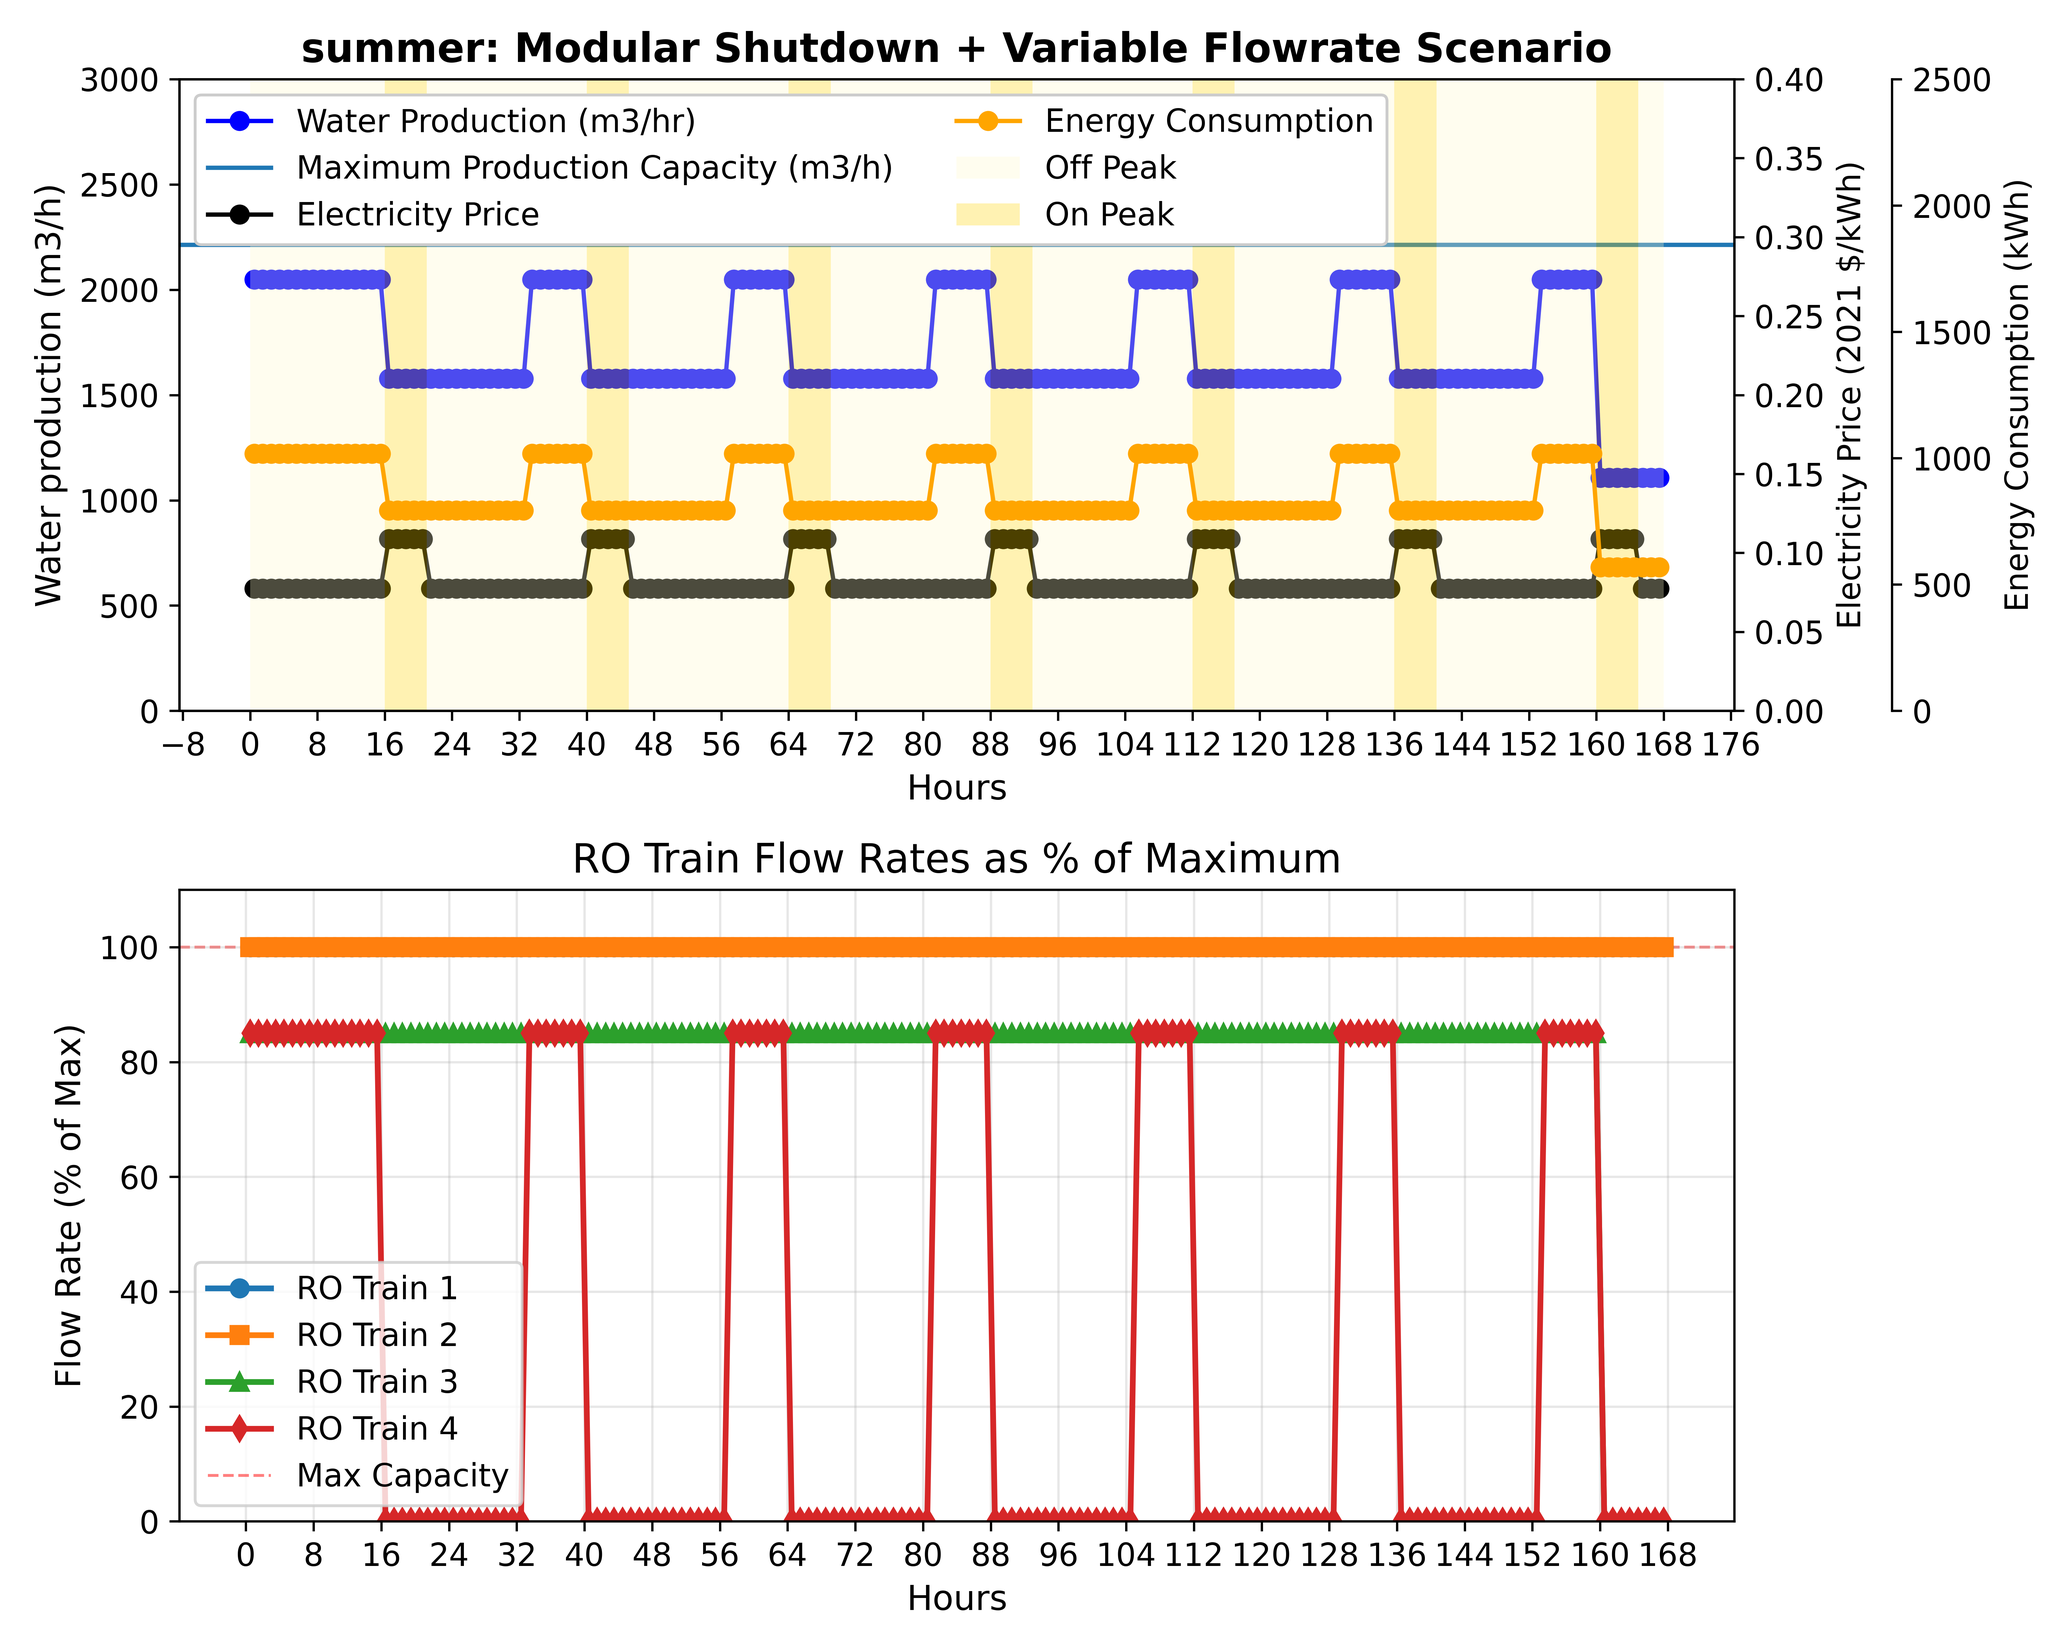
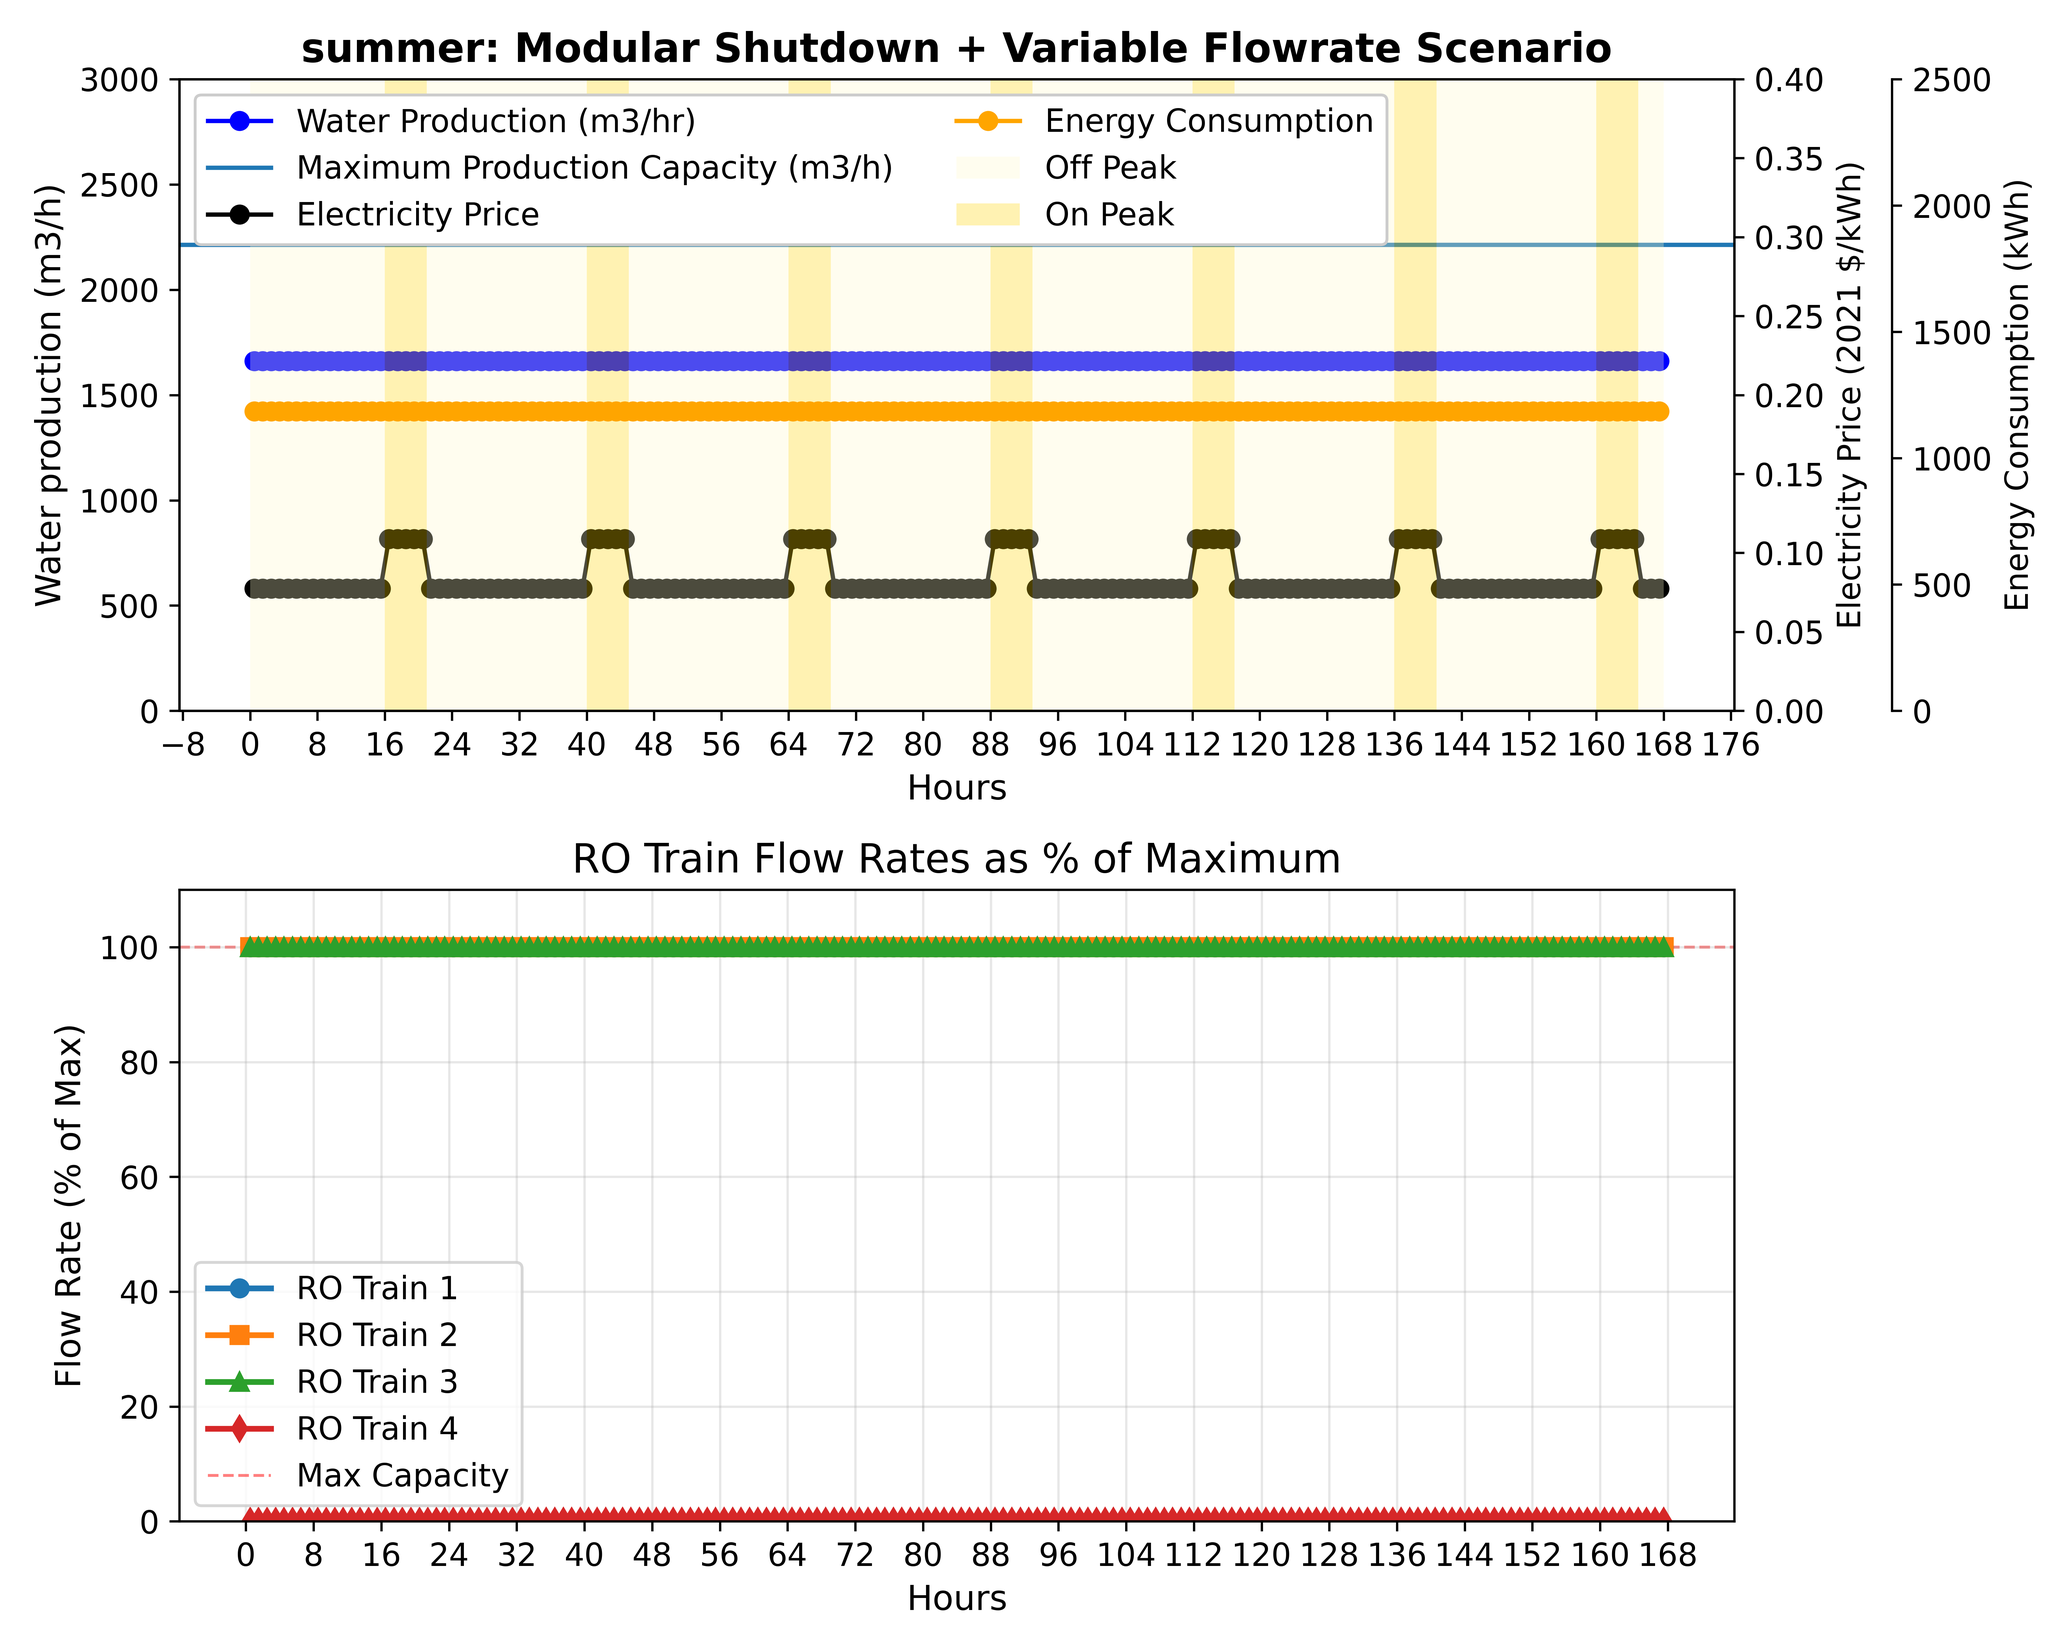
Addding demand charges to modular scenarios

diff --git a/src/wrd/multiperiod/basic_scenarios_3_5_25/multiperiod_week_modular_variable.py b/src/wrd/multiperiod/basic_scenarios_3_5_25/multiperiod_week_modular_variable.py
@@ -225,8 +225,9 @@ def build_wrd_flowsheet(
     # Function to calculate energy consumption per m3 of water treated. 
     def calculate_ro_energy_intensity(flow):
        # Valid only between perm flowrates of 490 and 562 m3/hr
-       return (7.060E-06*(flow/(pyunits.m**3/pyunits.hr))**2 - 6.779E-03*(flow/(pyunits.m**3/pyunits.hr)) + 2.103)* pyunits.kWh/pyunits.m**3
-
+    #    return (7.060E-06*(flow/(pyunits.m**3/pyunits.hr))**2 - 6.779E-03*(flow/(pyunits.m**3/pyunits.hr)) + 2.103)* pyunits.kWh/pyunits.m**3
+        return (6.34*10**-4*flow/(pyunits.m**3/pyunits.hr) + 0.17)* pyunits.kWh/pyunits.m**3
+    
     def calculate_uf_energy_intensity(flow):
         return 0.20 * pyunits.kWh/pyunits.m**3
 
@@ -355,7 +356,9 @@ def create_wrd_mp(
     n_time_points=24,
     elec_price=elec_price,
     daily_production_target=12 * pyunits.m**3/pyunits.day,
-    total_water_production_target=12 * pyunits.m**3/pyunits.day
+    total_water_production_target=12 * pyunits.m**3/pyunits.day,
+    peak_hours=list(range(16, 21)),  # 4 PM to 9 PM
+    demand_charges={"fixed_demand_price": 5, "on_peak_demand_price": 15},
 ):
     """
     This function creates a multi-period flowsheet object for each month for the WRD plant. This object contains
@@ -505,6 +508,57 @@ def create_wrd_mp(
             - b.fs.mp.blocks[i].process.fs.train_4_on
             <= 1
         )
+    m.fs.fixed_demand_price = Param(
+        initialize=demand_charges["fixed_demand_price"],
+        mutable=True,
+        units=CURRENCY_UNIT / pyunits.kW,
+        doc="Demand charge associated with highest period of energy use",
+    )
+
+    m.fs.on_peak_demand_price = Param(
+        initialize=demand_charges["on_peak_demand_price"],
+        mutable=True,
+        units=CURRENCY_UNIT / pyunits.kW,
+        doc="Demand charge associated with greatest power value within the on-peak hours",
+    )
+
+    m.fs.highest_demand = Var(
+        initialize=1000,
+        bounds=(0, None),
+        units=pyunits.kW,
+        doc="Demand during highest period of energy use",
+    )
+
+    m.fs.highest_on_peak_demand = Var(
+        initialize=1000,
+        bounds=(0, None),
+        units=pyunits.kW,
+        doc="Demand during highest period of energy use within the peak hours",
+    )
+
+    m.fs.fixed_demand_charge = Expression(
+        expr=m.fs.fixed_demand_price * m.fs.highest_demand,
+        doc="Demand charge for highest period of energy use",
+    )
+
+    m.fs.on_peak_demand_charge = Expression(
+        expr=m.fs.on_peak_demand_price * m.fs.highest_on_peak_demand,
+        doc="Demand charge for highest period of energy use within the peak hours",
+    )
+
+    @m.Constraint(range(n_time_points), doc="Upper bound highest demand by each period energy rate")
+    def eq_highest_demand(b, i):
+        return b.fs.highest_demand >= b.fs.mp.blocks[i].process.fs.treatment_energy_rate
+
+    m.fs.peak_hours = [h for h in range(n_time_points) if (h % 24) in peak_hours]
+
+    @m.Constraint(
+        m.fs.peak_hours,
+        doc="Upper bound highest on-peak demand by each period energy rate during peak hours",
+    )
+    def eq_highest_on_peak_demand(b, i):
+        return b.fs.highest_on_peak_demand >= b.fs.mp.blocks[i].process.fs.treatment_energy_rate
+
 
     # @m.Constraint(range(n_time_points), doc="Production should not change at midnight")
     # def eq_midnight_constraint_on_off(b, h):
@@ -518,10 +572,12 @@ def create_wrd_mp(
 
     @m.Expression(doc="Total cost")
     def total_cost(b):
-        return sum(
-            [b.fs.mp.blocks[i].process.fs.grid_cost for i in range(n_time_points)]
-            )
-    
+        return (
+            sum([b.fs.mp.blocks[i].process.fs.grid_cost for i in range(n_time_points)])
+            + b.fs.fixed_demand_charge
+            + b.fs.on_peak_demand_charge
+        )
+        
     # Add constraint for every 24 hours of water production
     m.fs.days = range(int(value(n_days)))
     
@@ -677,12 +733,16 @@ if __name__ == "__main__":
     total_water_production_target = 0.75 * 53150 * pyunits.m**3/pyunits.day * n_days * pyunits.day
 
     # season = "winter"
-    season = 'summer'
+    season = 'winter'
 
     if season == "winter":
         elec_price = build_elec_price_winter(n=n_time_points)
+        peak_hours = list(range(16, 21))
+        demand_charges = {"fixed_demand_price": 19.62, "on_peak_demand_price": 7.99+2.55} # March 2023
     else:
         elec_price = build_elec_price_summer(n=n_time_points)
+        peak_hours = list(range(16, 21)) # But only the weekdays actually!
+        demand_charges = {"fixed_demand_price": 19.94, "on_peak_demand_price": 22.10+14.68} # June 2023
 
     m = create_wrd_mp(
         n_days=n_days,
@@ -690,6 +750,9 @@ if __name__ == "__main__":
         elec_price=elec_price,
         daily_production_target=daily_production_target,
         total_water_production_target=total_water_production_target,
+        peak_hours=peak_hours,
+        demand_charges=demand_charges,
+
     )
     assert_units_consistent(m)
     # print_unfixed_vars(m)
@@ -704,7 +767,7 @@ if __name__ == "__main__":
     solver = SolverFactory("mindtpy")
     results = solver.solve(
         m,
-        strategy="FP",
+        strategy="OA",
         mip_solver="glpk",
         nlp_solver="ipopt",
         tee=True,
@@ -725,7 +788,7 @@ if __name__ == "__main__":
 
     print("Total production in m3:", m.total_production())
     print("Total target water production in m3:", total_water_production_target())
-    print("Total energy cost:", m.total_cost(), "2021 $")
+    print("Total electricity cost:", m.total_cost(), "2021 $")
 
     plot_function(m, n_time_points, season)
     plot_grid_cost_over_time(m, n_time_points, season)

diff --git a/src/wrd/multiperiod/basic_scenarios_3_5_25/multiperiod_week_modular.py b/src/wrd/multiperiod/basic_scenarios_3_5_25/multiperiod_week_modular.py
@@ -335,6 +335,7 @@ def unfix_dof(m):
     m.fs.train_4_on.unfix()
     return None
 
+
 def initialize_mp(m):
     print("Initializing multi-period model...")
     # Check if first time step
@@ -355,7 +356,9 @@ def create_wrd_mp(
     n_time_points=24,
     elec_price=elec_price,
     daily_production_target=12 * pyunits.m**3/pyunits.day,
-    total_water_production_target=12 * pyunits.m**3/pyunits.day
+    total_water_production_target=12 * pyunits.m**3/pyunits.day,
+    peak_hours=list(range(16, 21)),  # 4 PM to 9 PM
+    demand_charges={"fixed_demand_price": 5, "on_peak_demand_price": 15},
 ):
     """
     This function creates a multi-period flowsheet object for each month for the WRD plant. This object contains
@@ -506,6 +509,57 @@ def create_wrd_mp(
             <= 1
         )
 
+    m.fs.fixed_demand_price = Param(
+        initialize=demand_charges["fixed_demand_price"],
+        mutable=True,
+        units=CURRENCY_UNIT / pyunits.kW,
+        doc="Demand charge associated with highest period of energy use",
+    )
+
+    m.fs.on_peak_demand_price = Param(
+        initialize=demand_charges["on_peak_demand_price"],
+        mutable=True,
+        units=CURRENCY_UNIT / pyunits.kW,
+        doc="Demand charge associated with greatest power value within the on-peak hours",
+    )
+
+    m.fs.highest_demand = Var(
+        initialize=0,
+        bounds=(0, None),
+        units=pyunits.kW,
+        doc="Demand during highest period of energy use",
+    )
+
+    m.fs.highest_on_peak_demand = Var(
+        initialize=0,
+        bounds=(0, None),
+        units=pyunits.kW,
+        doc="Demand during highest period of energy use within the peak hours",
+    )
+
+    m.fs.fixed_demand_charge = Expression(
+        expr=m.fs.fixed_demand_price * m.fs.highest_demand,
+        doc="Demand charge for highest period of energy use",
+    )
+
+    m.fs.on_peak_demand_charge = Expression(
+        expr=m.fs.on_peak_demand_price * m.fs.highest_on_peak_demand,
+        doc="Demand charge for highest period of energy use within the peak hours",
+    )
+
+    @m.Constraint(range(n_time_points), doc="Upper bound highest demand by each period energy rate")
+    def eq_highest_demand(b, i):
+        return b.fs.highest_demand >= b.fs.mp.blocks[i].process.fs.treatment_energy_rate
+
+    m.fs.peak_hours = [h for h in range(n_time_points) if (h % 24) in peak_hours]
+
+    @m.Constraint(
+        m.fs.peak_hours,
+        doc="Upper bound highest on-peak demand by each period energy rate during peak hours",
+    )
+    def eq_highest_on_peak_demand(b, i):
+        return b.fs.highest_on_peak_demand >= b.fs.mp.blocks[i].process.fs.treatment_energy_rate
+
     # @m.Constraint(range(n_time_points), doc="Production should not change at midnight")
     # def eq_midnight_constraint_on_off(b, h):
     #     if h == 0 or (h % 24) != 0:
@@ -518,9 +572,11 @@ def create_wrd_mp(
 
     @m.Expression(doc="Total cost")
     def total_cost(b):
-        return sum(
-            [b.fs.mp.blocks[i].process.fs.grid_cost for i in range(n_time_points)]
-            )
+        return (
+            sum([b.fs.mp.blocks[i].process.fs.grid_cost for i in range(n_time_points)])
+            + b.fs.fixed_demand_charge
+            + b.fs.on_peak_demand_charge
+        )
     
     # Add constraint for every 24 hours of water production
     m.fs.days = range(int(value(n_days)))
@@ -551,7 +607,6 @@ def create_wrd_mp(
     m.fs.obj = Objective(expr=m.total_cost)
 
     return m
-
 
 
 def plot_function(m, n_time_points, season):
@@ -648,13 +703,16 @@ if __name__ == "__main__":
     daily_production_target = 0 * pyunits.m**3/pyunits.day
     total_water_production_target = 0.75 * 53150 * pyunits.m**3/pyunits.day * n_days * pyunits.day
 
-    # season = "winter"
-    season = 'summer'
+    season = 'winter'
 
     if season == "winter":
         elec_price = build_elec_price_winter(n=n_time_points)
+        peak_hours = list(range(16, 21))
+        demand_charges = {"fixed_demand_price": 19.62, "on_peak_demand_price": 7.99+2.55} # March 2023
     else:
         elec_price = build_elec_price_summer(n=n_time_points)
+        peak_hours = list(range(16, 21)) # But only the weekdays actually!
+        demand_charges = {"fixed_demand_price": 19.94, "on_peak_demand_price": 22.10+14.68} # June 2023
 
     m = create_wrd_mp(
         n_days=n_days,
@@ -662,6 +720,8 @@ if __name__ == "__main__":
         elec_price=elec_price,
         daily_production_target=daily_production_target,
         total_water_production_target=total_water_production_target,
+        peak_hours=peak_hours,
+        demand_charges=demand_charges,
     )
     assert_units_consistent(m)
     # print_unfixed_vars(m)
@@ -697,7 +757,7 @@ if __name__ == "__main__":
 
     print("Total production in m3:", m.total_production())
     print("Total target water production in m3:", total_water_production_target())
-    print("Total energy cost:", m.total_cost(), "2021 $")
+    print("Total electricity cost:", m.total_cost(), "2021 $")
 
     plot_function(m, n_time_points, season)
 

diff --git a/src/wrd/multiperiod/basic_scenarios_3_5_25/multiperiod_week_baseline.py b/src/wrd/multiperiod/basic_scenarios_3_5_25/multiperiod_week_baseline.py
@@ -461,17 +461,15 @@ def create_wrd_mp(
         units = pyunits.kW,
         doc = 'Demand during highest period of energy use within the peak hours')
 
-    m.fs.fixed_demand_charge = Var(
-        initialize=0,
-        bounds=(0, None),
-        units=CURRENCY_UNIT,
-        doc = 'Demand Charge for highest 15 min period of energy use within the peak hours')
+    m.fs.fixed_demand_charge = Expression(
+        expr=m.fs.fixed_demand_price * m.fs.highest_demand,
+        doc="Demand charge for highest period of energy use",
+    )
 
-    m.fs.on_peak_demand_charge = Var(
-        initialize=0,
-        bounds=(0, None),
-        units = CURRENCY_UNIT,
-        doc = 'Demand Charge for highest 15 min period of energy use within the peak hours')
+    m.fs.on_peak_demand_charge = Expression(
+        expr=m.fs.on_peak_demand_price * m.fs.highest_on_peak_demand,
+        doc="Demand charge for highest period of energy use within the peak hours",
+    )
 
 
     @m.Constraint(range(n_time_points), doc="Upper bound highest demand by each period energy rate")
@@ -484,14 +482,6 @@ def create_wrd_mp(
     @m.Constraint(m.fs.peak_hours, doc="Upper bound on highest on peak demand by each period energy rate during peak hours")
     def eq_highest_on_peak_demand(b, i):
         return b.fs.highest_on_peak_demand >= b.fs.mp.blocks[i].process.fs.treatment_energy_rate
-
-    @m.Constraint(doc="Demand charge based on highest demand")
-    def eq_demand_charge(b):
-        return m.fs.fixed_demand_charge == b.fs.fixed_demand_price * b.fs.highest_demand
-    
-    @m.Constraint(doc= "Demand charge based on highest on peak demand")
-    def eq_on_peak_demand_charge(b):
-        return m.fs.on_peak_demand_charge == b.fs.on_peak_demand_price * b.fs.highest_on_peak_demand
 
     @m.Expression(doc="Total cost")
     def total_cost(b):
@@ -642,8 +632,12 @@ if __name__ == "__main__":
 
     if season == "winter":
         elec_price = build_elec_price_winter(n=n_time_points)
+        peak_hours = list(range(16, 21))
+        demand_charges = {"fixed_demand_price": 19.62, "on_peak_demand_price": 7.99+2.55} # March 2023
     else:
         elec_price = build_elec_price_summer(n=n_time_points)
+        peak_hours = list(range(16, 21)) # But only the weekdays actually!
+        demand_charges = {"fixed_demand_price": 19.94, "on_peak_demand_price": 22.10+14.68} # June 2023
 
     m = create_wrd_mp(
         n_days=n_days,
@@ -651,8 +645,8 @@ if __name__ == "__main__":
         elec_price=elec_price,
         daily_production_target=daily_production_target,
         total_water_production_target=total_water_production_target,
-        peak_hours=list(range(16, 21)),  # 4 PM to 9 PM
-        demand_charges = {"fixed_demand_price": 10, "on_peak_demand_price": 20}
+        peak_hours=peak_hours,
+        demand_charges = demand_charges
     )
     assert_units_consistent(m)
     # print_unfixed_vars(m)
